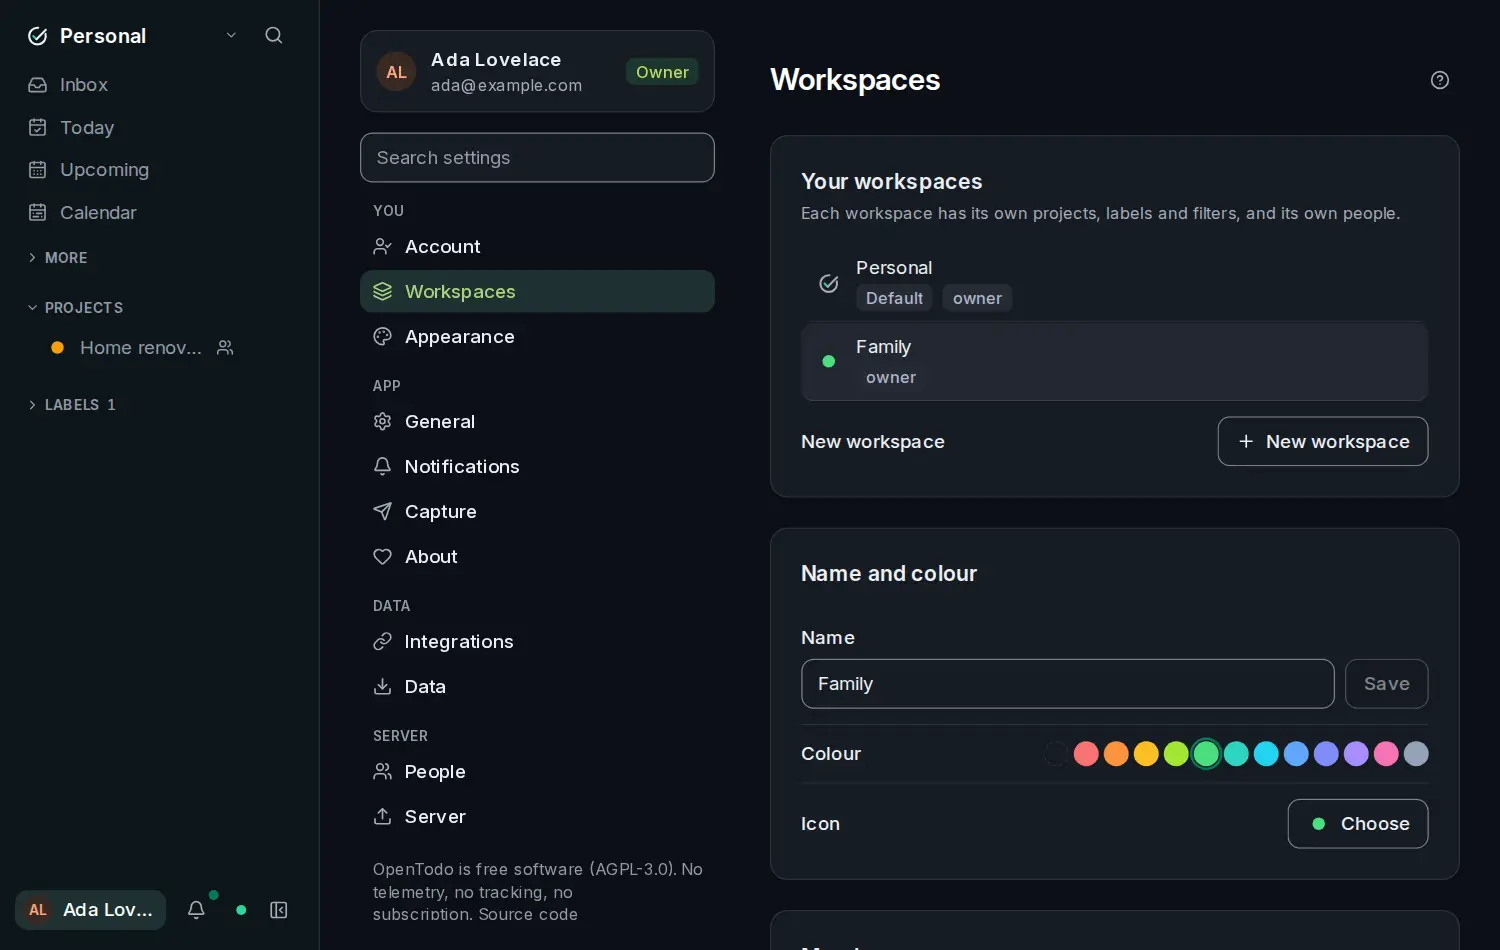
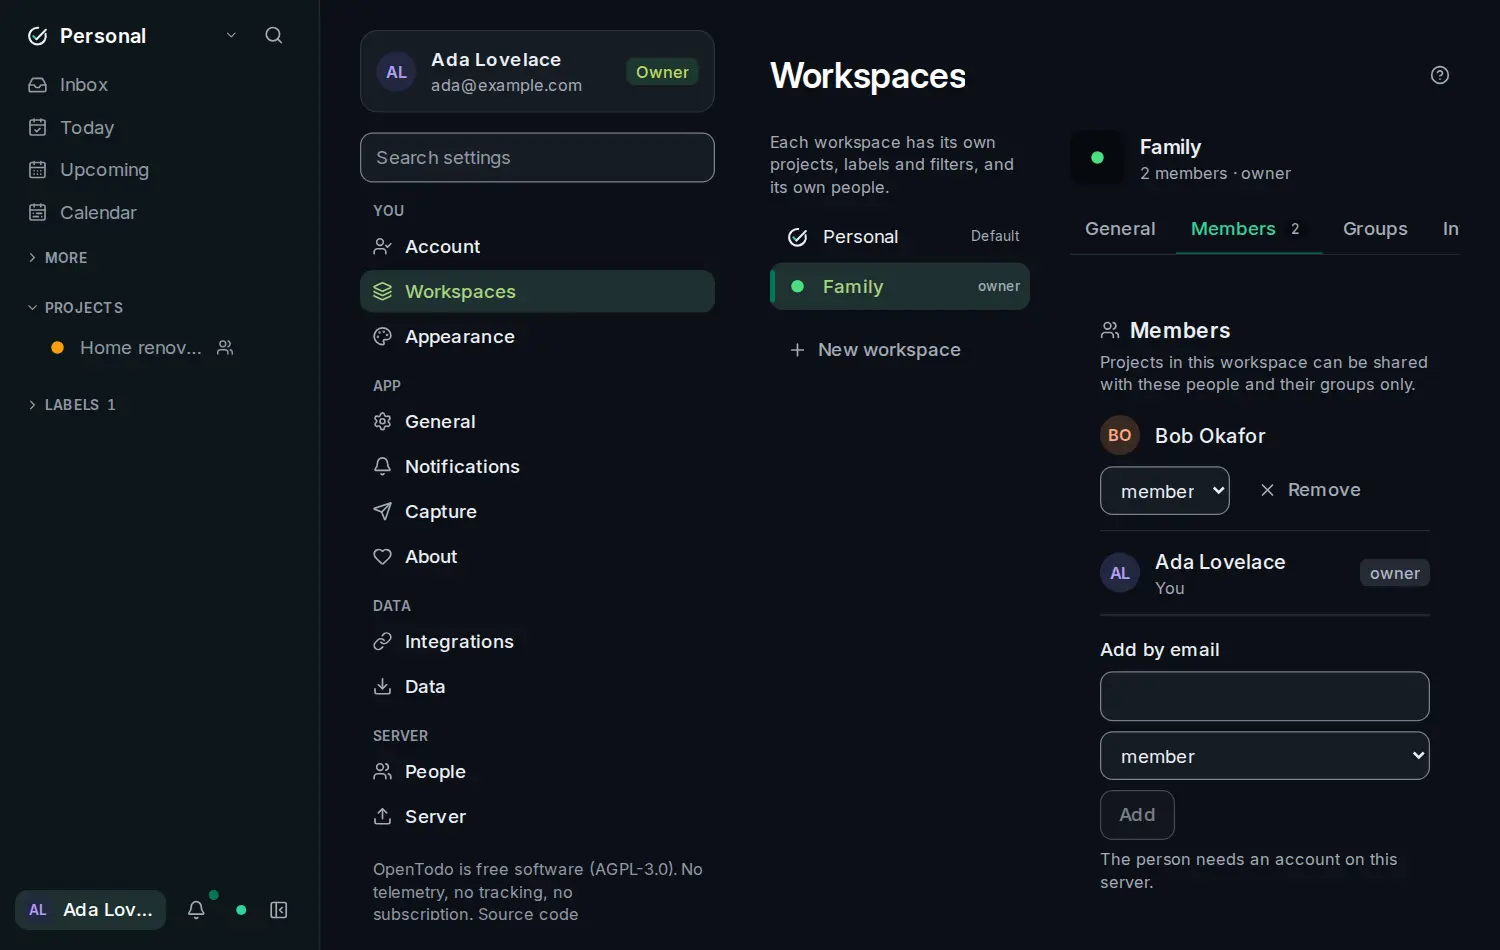
Docs: the Workspaces card has its thumbnails, and the docs check requires them
docs/workspaces.md named card: workspaces, but no card-workspaces-*.webp
existed, so the website's link checks failed on the v0.10.0 bundle. The
card is now the Workspaces settings page (card: settings-workspaces), the
shot marked card: true in scripts/docs-screenshots.mjs. That shot had
broken with the two-pane page (#275): it opens Family's Members tab again,
and its screenshots show the current page. The docs check now fails when a
page's card has no card-<name>-{light,dark}.webp, with a test.

Claude-Session: https://claude.ai/code/session_01Bkw4TZLFDGeMdZR3vWZF13

diff --git a/docs/workspaces.md b/docs/workspaces.md
@@ -6,7 +6,7 @@ section: Guides
 specs: [workspaces, project-sharing, app-shell]
 screens: [settings/workspaces]
 order: 72
-card: workspaces
+card: settings-workspaces
 ---
 # Workspaces
 
